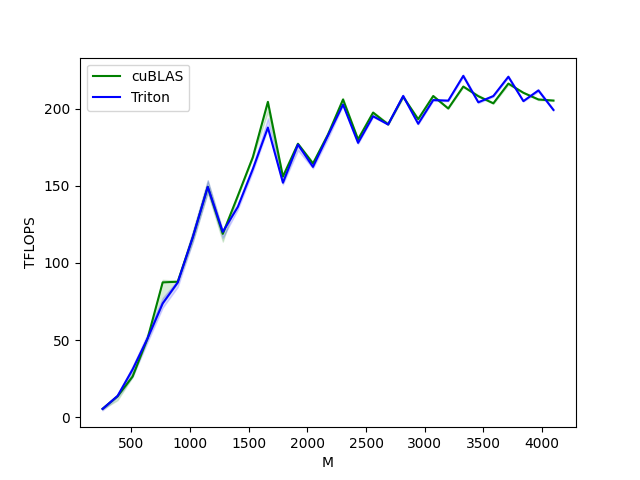
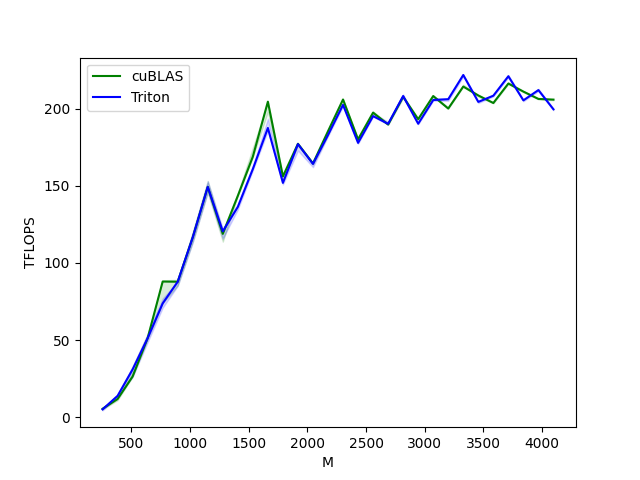
chore: update matmul

diff --git a/03_matmul/matmul.py b/03_matmul/matmul.py
@@ -126,13 +126,13 @@ def matmul(a: torch.Tensor, b: torch.Tensor):
     return c
 
 
-
-a = torch.randn(512, 678, device=device, dtype=torch.float16)
-b = torch.randn(678, 256, device=device, dtype=torch.float16)
+# The accuracy drops with different shape settings, especially when K is large.
+a = torch.randn(512, 512, device=device, dtype=torch.float16)
+b = torch.randn(512, 512, device=device, dtype=torch.float16)
 c_torch = torch.matmul(a, b)
 c_triton = matmul(a, b)
 
-torch.testing.assert_close(c_torch, c_triton, rtol=1e-4, atol=1e-4)
+torch.testing.assert_close(c_torch, c_triton, rtol=0, atol=1e-4)
 
 print(f'Congratulations! {a.dtype}:  a {a.shape} @ b {b.shape} is right!')
 
@@ -174,4 +174,4 @@ def benchmark(M, N, K, provider, fp8_inputs):
     return perf(ms), perf(max_ms), perf(min_ms)
 
 
-# benchmark.run(show_plots=True, print_data=True, save_path='./result')
+benchmark.run(show_plots=True, print_data=True, save_path='./result')
